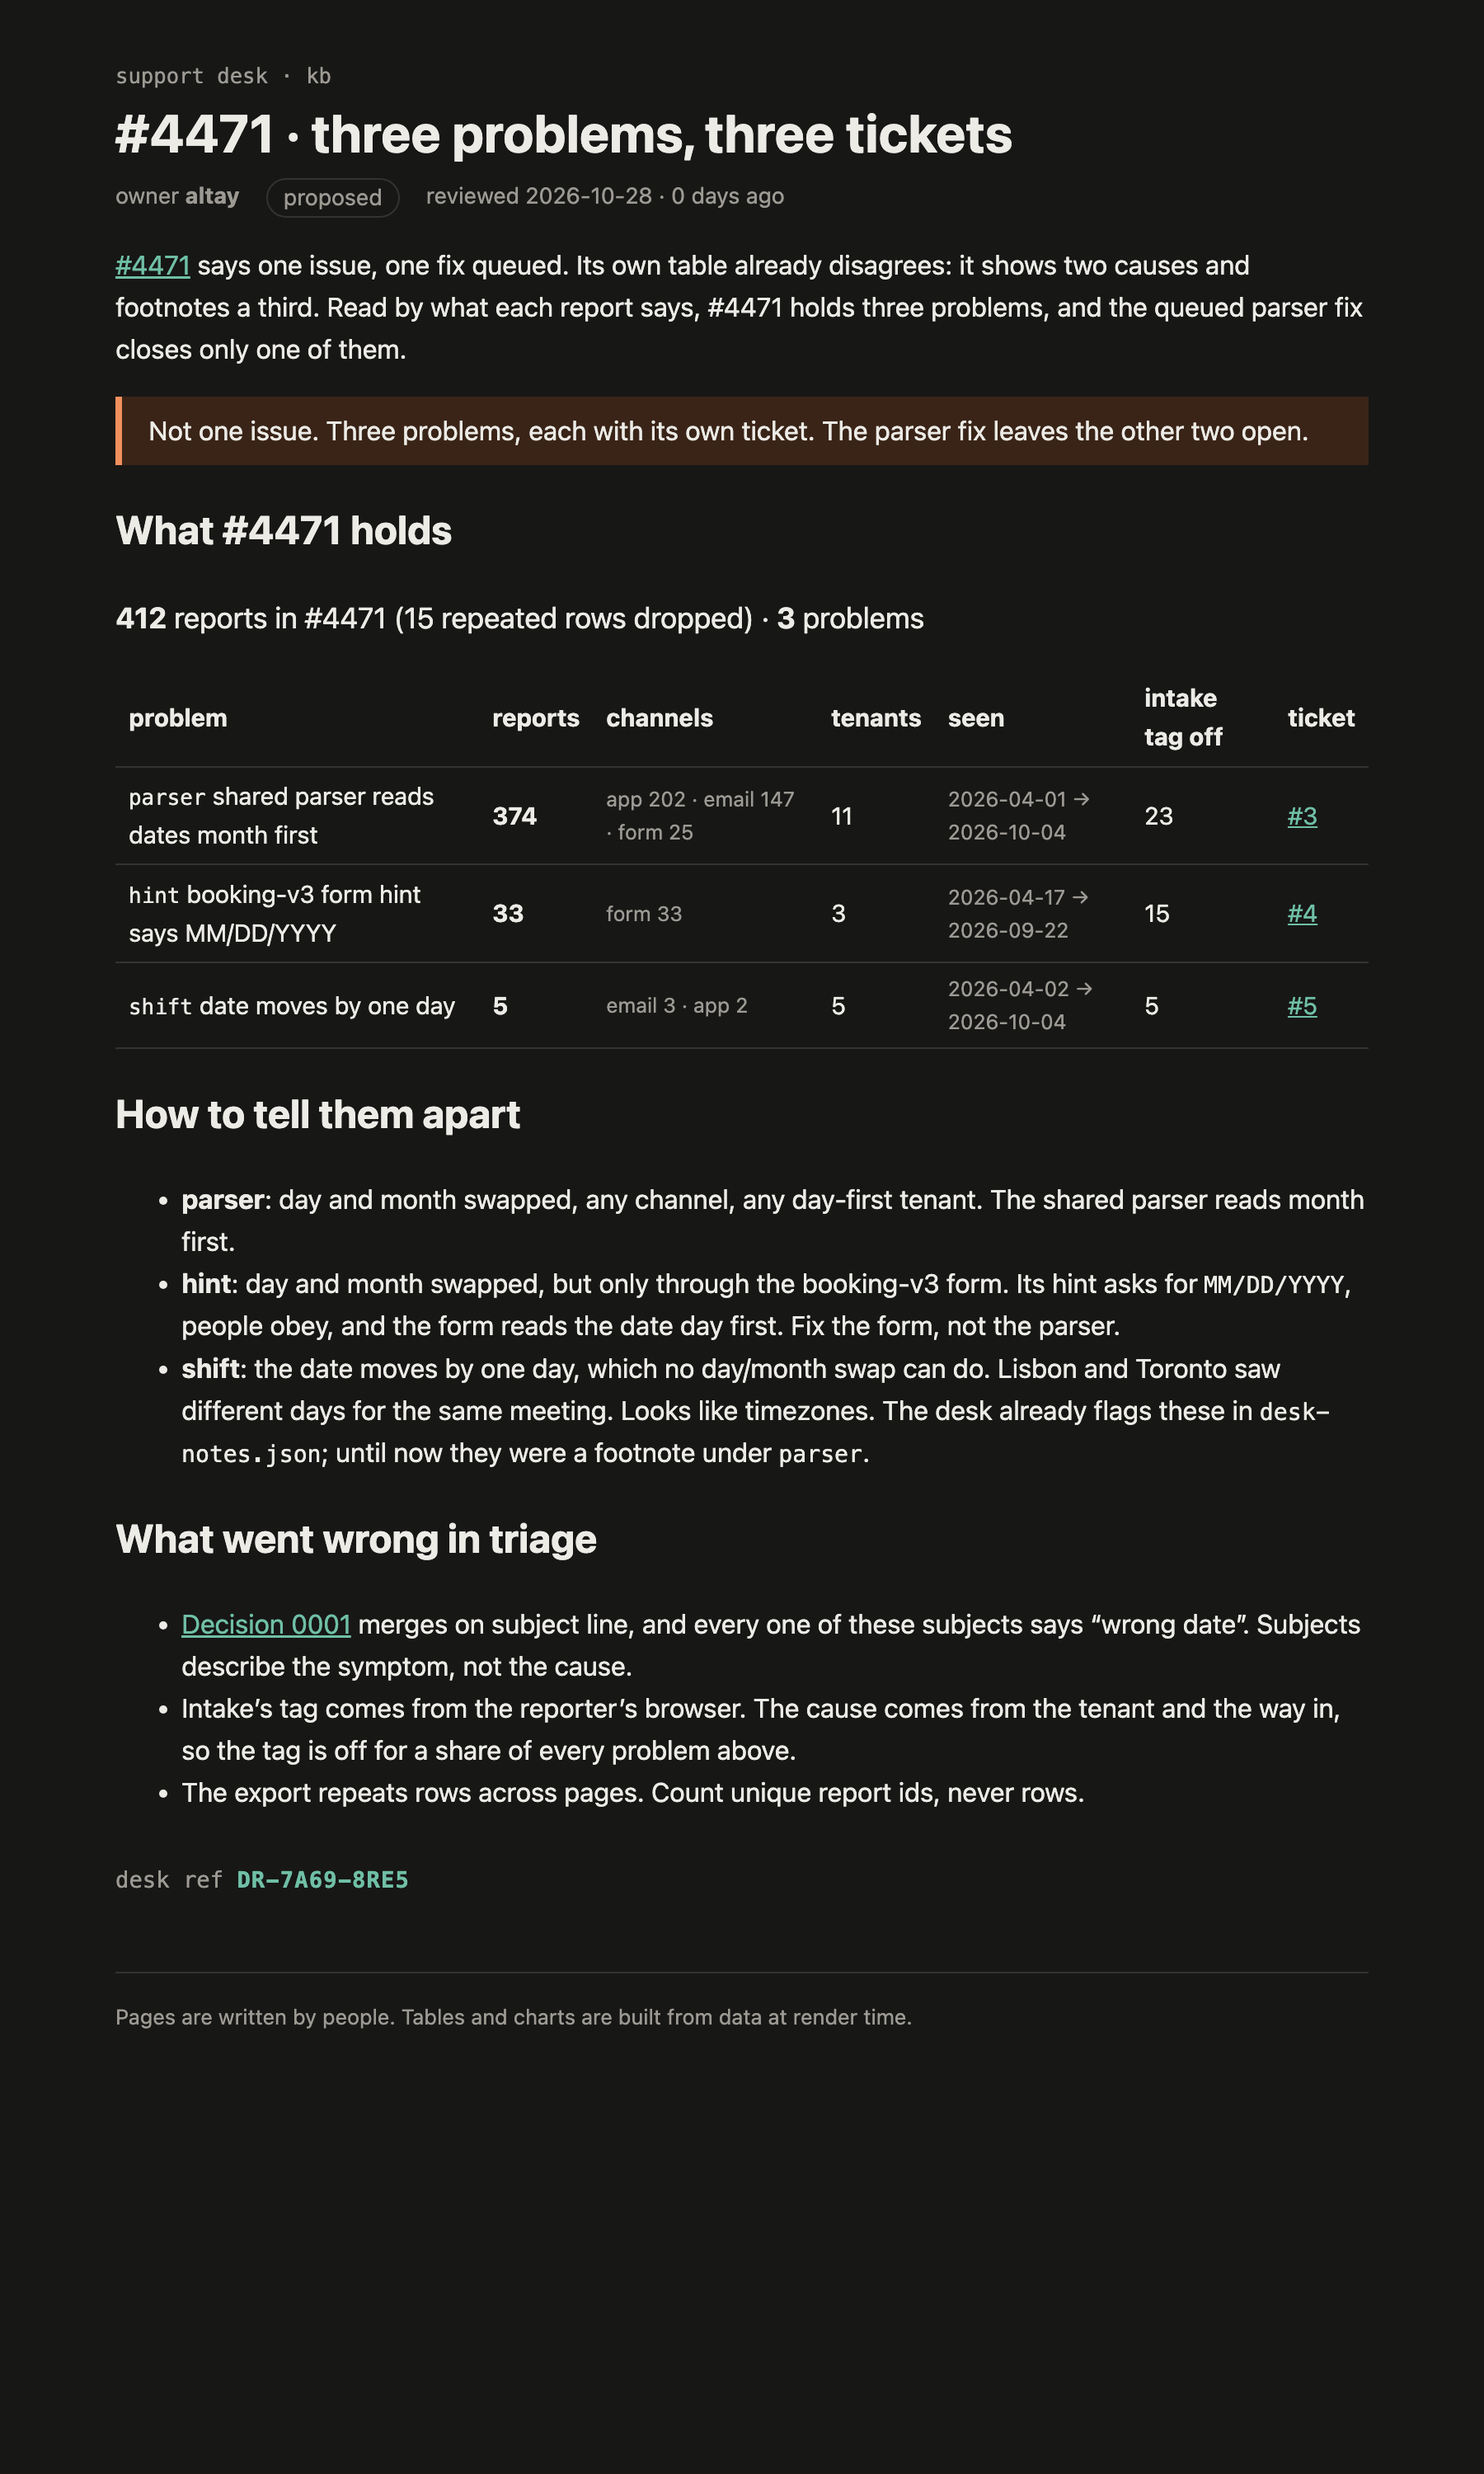
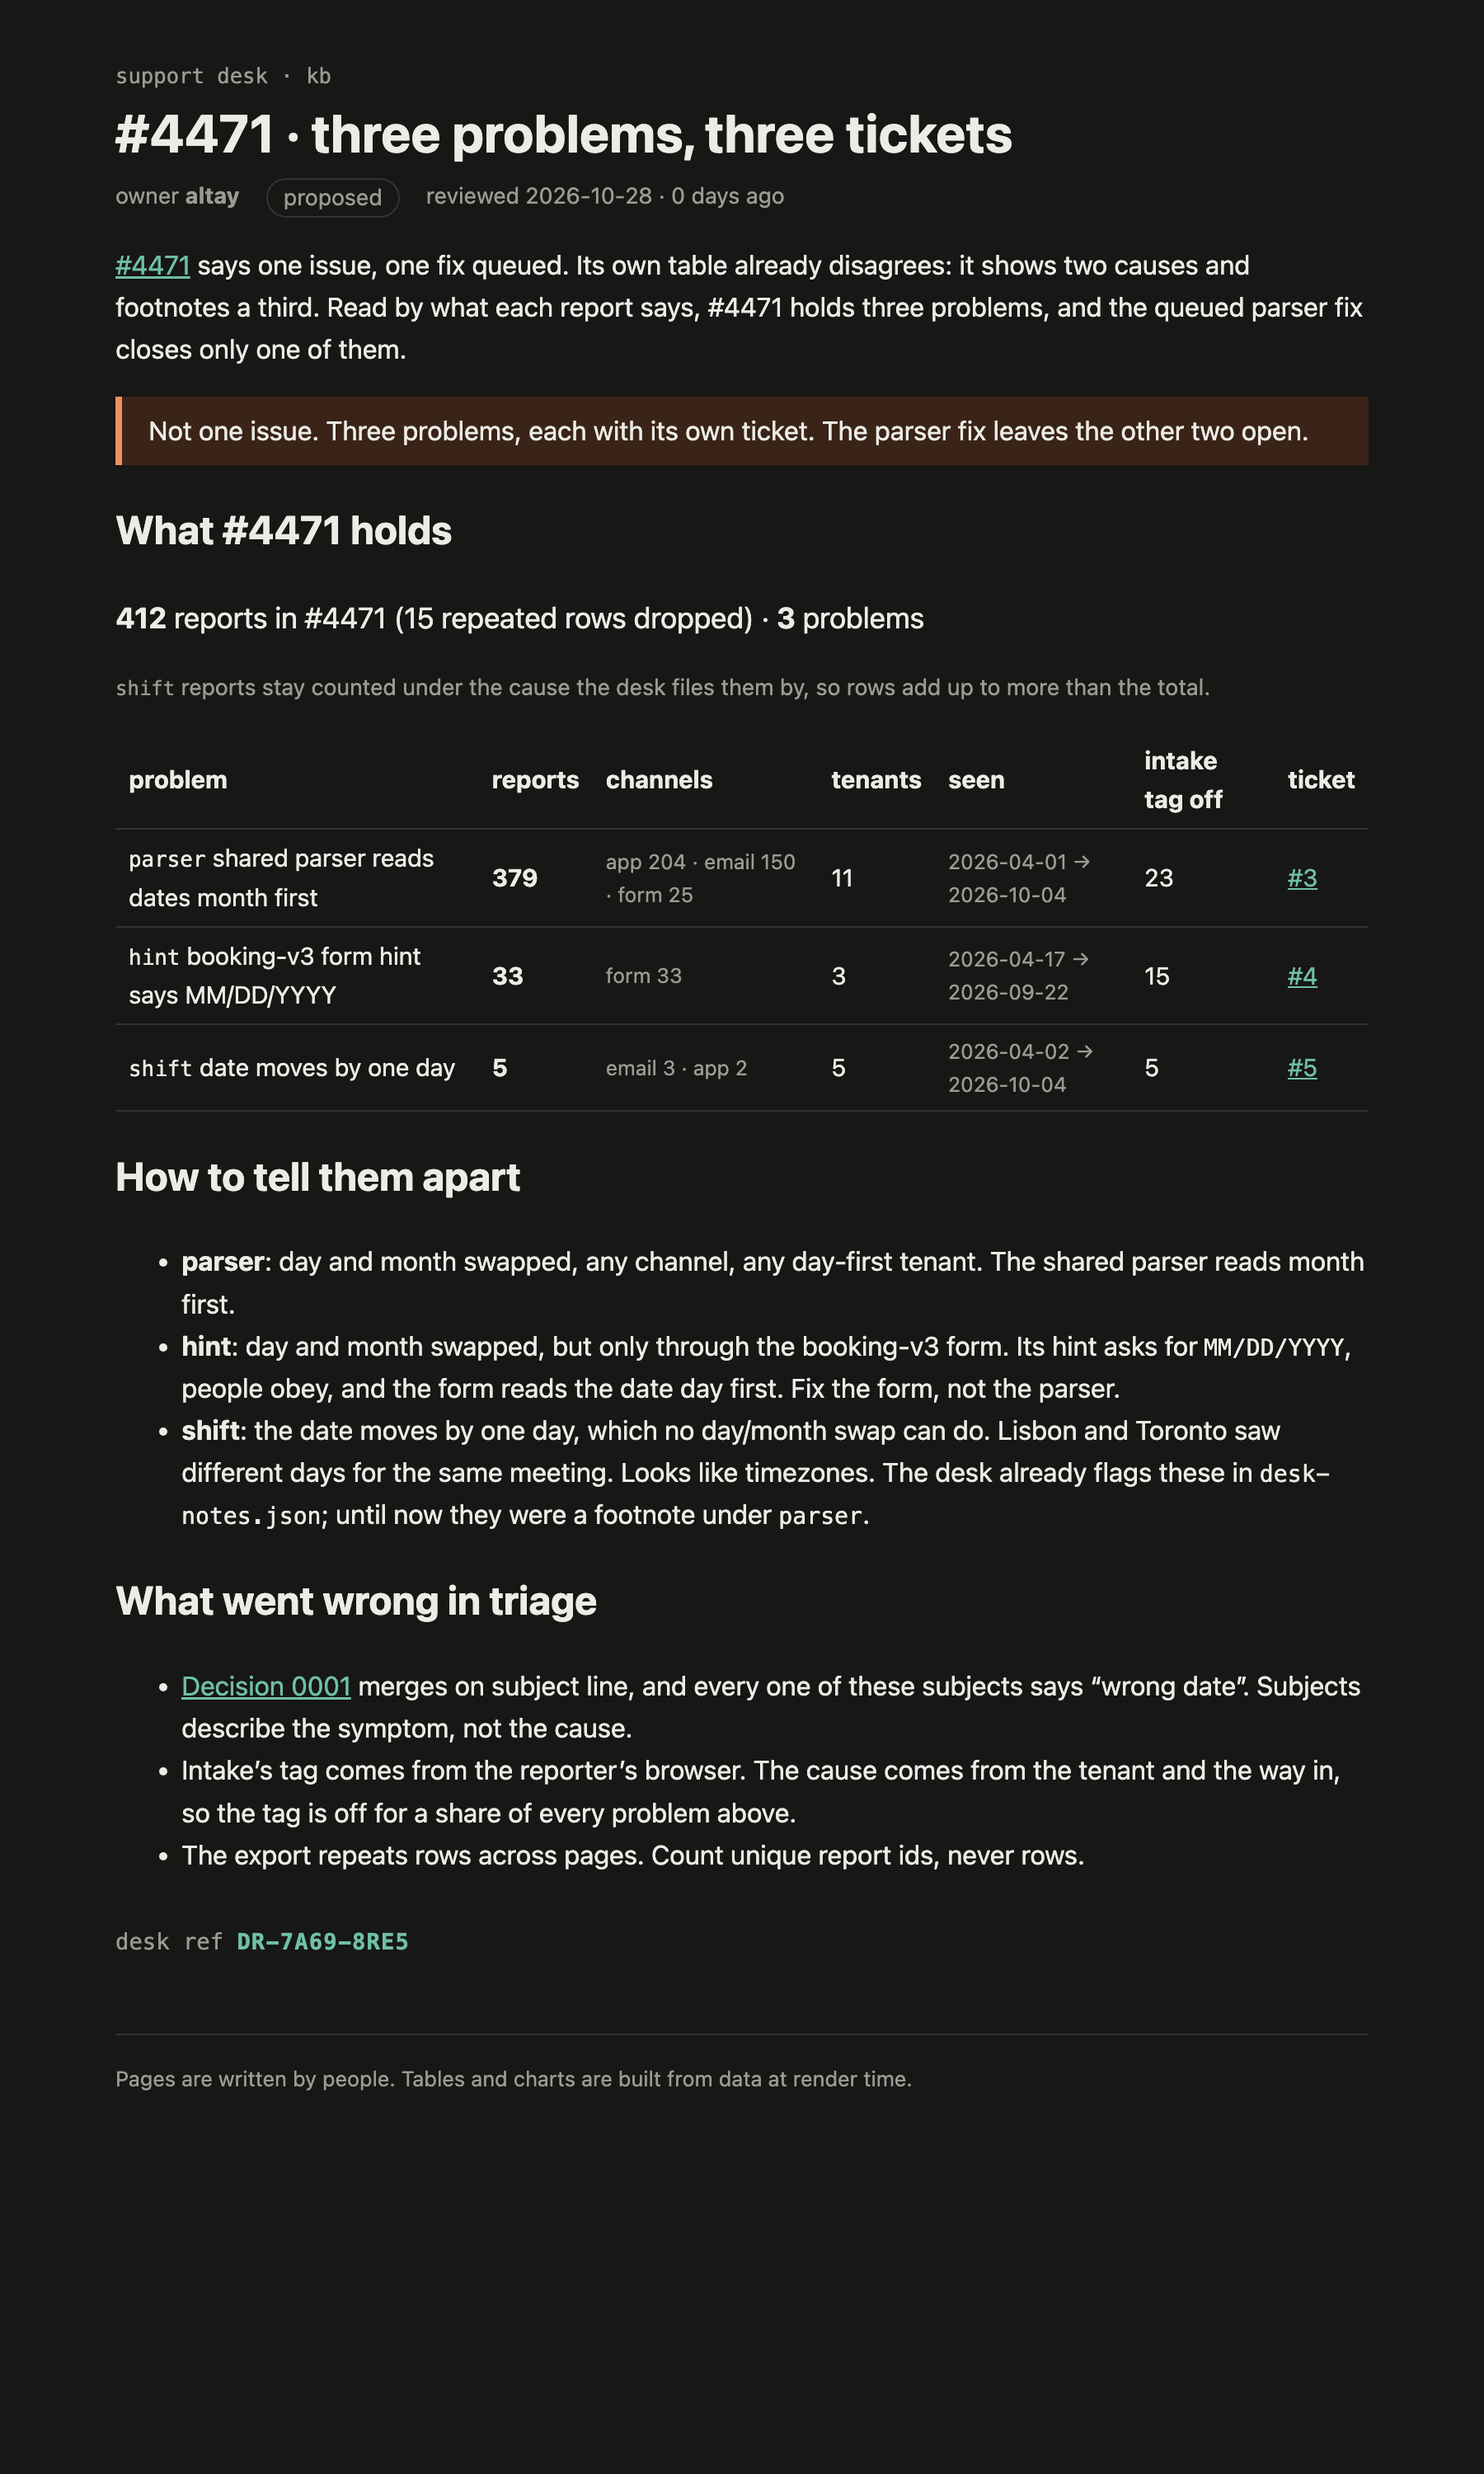
fix: count one-day moves under parser on the #4471 split page, as the desk does

diff --git a/challenges/s01e03/rendered/4471-split.html b/challenges/s01e03/rendered/4471-split.html
@@ -3,19 +3,19 @@
   <head>
     <meta charset="utf-8" />
     <meta name="viewport" content="width=device-width, initial-scale=1" />
-    <link href="../../_app/immutable/entry/start.DoitRHeC.js" rel="modulepreload">
+    <link href="../../_app/immutable/entry/start.DaoaJX54.js" rel="modulepreload">
 		<link href="../../_app/immutable/chunks/fruYDLqp.js" rel="modulepreload">
-		<link href="../../_app/immutable/chunks/BdlrgVa2.js" rel="modulepreload">
+		<link href="../../_app/immutable/chunks/Dne0C3ZP.js" rel="modulepreload">
 		<link href="../../_app/immutable/chunks/Cbdj2qAo.js" rel="modulepreload">
-		<link href="../../_app/immutable/entry/app.D5BmlFSh.js" rel="modulepreload">
+		<link href="../../_app/immutable/entry/app.CNBy11cR.js" rel="modulepreload">
 		<link href="../../_app/immutable/chunks/BkYfdh9H.js" rel="modulepreload">
 		<link href="../../_app/immutable/chunks/BD3UdjSR.js" rel="modulepreload">
 		<link href="../../_app/immutable/chunks/wnmzq4eU.js" rel="modulepreload">
 		<link href="../../_app/immutable/chunks/TGQFHf5e.js" rel="modulepreload">
 		<link href="../../_app/immutable/nodes/0.CCpBT1ka.js" rel="modulepreload">
 		<link href="../../_app/immutable/chunks/ybC49tkz.js" rel="modulepreload">
-		<link href="../../_app/immutable/nodes/5.diwDGfYk.js" rel="modulepreload">
-		<link href="../../_app/immutable/chunks/YsMd3n73.js" rel="modulepreload">
+		<link href="../../_app/immutable/nodes/5.3DZP7zmw.js" rel="modulepreload">
+		<link href="../../_app/immutable/chunks/DkLjFfNV.js" rel="modulepreload">
 		<link href="../../_app/immutable/chunks/DFPV7QJw.js" rel="modulepreload">
 		<link href="../../_app/immutable/chunks/DxLlZHEF.js" rel="modulepreload">
 		<link href="../../_app/immutable/chunks/iXLSwIXB.js" rel="modulepreload">
@@ -28,7 +28,7 @@
     <div style="display: contents"><!--[--><!--[0--><!--[--><!--[--><div class="kb svelte-e2jw2j"><header><a class="crumb svelte-e2jw2j" href="/kb">support desk · kb</a> <h1 class="svelte-e2jw2j">#4471 · three problems, three tickets</h1> <p class="meta svelte-e2jw2j"><span>owner <b>altay</b></span> <span class="status proposed svelte-e2jw2j">proposed</span> <span class="svelte-e2jw2j">reviewed 2026-10-28 · 0 days ago</span></p></header> <!--[-1--><!--]--> <main><p><a href="/kb/incidents/4471">#4471</a> says one issue, one fix queued. Its own table already disagrees: it
 shows two causes and footnotes a third. Read by what each report says, #4471 holds three problems,
 and the queued parser fix closes only one of them.</p> <aside class="warn svelte-17bri61"><!---->Not one issue. Three problems, each with its own ticket. The parser fix leaves the other two open.<!----></aside><!----> <h2>What #4471 holds</h2> <p class="sum svelte-1op6c6"><strong>412</strong> reports in #4471
-  (15 repeated rows dropped) · <strong>3</strong> problems</p> <table><thead><tr><th>problem</th><th>reports</th><th>channels</th><th>tenants</th><th>seen</th><th>intake tag off</th><th>ticket</th></tr></thead><tbody><!--[--><tr><td><code>parser</code> shared parser reads dates month first</td><td><strong>374</strong></td><td class="muted svelte-1op6c6">app 202 · email 147 · form 25</td><td>11</td><td class="muted svelte-1op6c6">2026-04-01 → 2026-10-04</td><td>23</td><td><!--[0--><a href="https://github.com/altaywtf/mega-dev/issues/3">#3</a><!--]--></td></tr><tr><td><code>hint</code> booking-v3 form hint says MM/DD/YYYY</td><td><strong>33</strong></td><td class="muted svelte-1op6c6">form 33</td><td>3</td><td class="muted svelte-1op6c6">2026-04-17 → 2026-09-22</td><td>15</td><td><!--[0--><a href="https://github.com/altaywtf/mega-dev/issues/4">#4</a><!--]--></td></tr><tr><td><code>shift</code> date moves by one day</td><td><strong>5</strong></td><td class="muted svelte-1op6c6">email 3 · app 2</td><td>5</td><td class="muted svelte-1op6c6">2026-04-02 → 2026-10-04</td><td>5</td><td><!--[0--><a href="https://github.com/altaywtf/mega-dev/issues/5">#5</a><!--]--></td></tr><!--]--></tbody></table><!----> <h2>How to tell them apart</h2> <ul><li><strong>parser</strong>: day and month swapped, any channel, any day-first tenant. The shared parser reads
+  (15 repeated rows dropped) · <strong>3</strong> problems</p> <p class="muted svelte-1op6c6"><code>shift</code> reports stay counted under the cause the desk files them by, so rows add up to more than the total.</p> <table><thead><tr><th>problem</th><th>reports</th><th>channels</th><th>tenants</th><th>seen</th><th>intake tag off</th><th>ticket</th></tr></thead><tbody><!--[--><tr><td><code>parser</code> shared parser reads dates month first</td><td><strong>379</strong></td><td class="muted svelte-1op6c6">app 204 · email 150 · form 25</td><td>11</td><td class="muted svelte-1op6c6">2026-04-01 → 2026-10-04</td><td>23</td><td><!--[0--><a href="https://github.com/altaywtf/mega-dev/issues/3">#3</a><!--]--></td></tr><tr><td><code>hint</code> booking-v3 form hint says MM/DD/YYYY</td><td><strong>33</strong></td><td class="muted svelte-1op6c6">form 33</td><td>3</td><td class="muted svelte-1op6c6">2026-04-17 → 2026-09-22</td><td>15</td><td><!--[0--><a href="https://github.com/altaywtf/mega-dev/issues/4">#4</a><!--]--></td></tr><tr><td><code>shift</code> date moves by one day</td><td><strong>5</strong></td><td class="muted svelte-1op6c6">email 3 · app 2</td><td>5</td><td class="muted svelte-1op6c6">2026-04-02 → 2026-10-04</td><td>5</td><td><!--[0--><a href="https://github.com/altaywtf/mega-dev/issues/5">#5</a><!--]--></td></tr><!--]--></tbody></table><!----> <h2>How to tell them apart</h2> <ul><li><strong>parser</strong>: day and month swapped, any channel, any day-first tenant. The shared parser reads
 month first.</li> <li><strong>hint</strong>: day and month swapped, but only through the booking-v3 form. Its hint asks for <code>MM/DD/YYYY</code>, people obey, and the form reads the date day first. Fix the form, not the parser.</li> <li><strong>shift</strong>: the date moves by one day, which no day/month swap can do. Lisbon and Toronto saw
 different days for the same meeting. Looks like timezones. The desk already flags these in <code>desk-notes.json</code>; until now they were a footnote under <code>parser</code>.</li></ul> <h2>What went wrong in triage</h2> <ul><li><a href="/kb/decisions/0001-dedupe-by-subject">Decision 0001</a> merges on subject line, and every one of
 these subjects says “wrong date”. Subjects describe the symptom, not the cause.</li> <li>Intake’s tag comes from the reporter’s browser. The cause comes from the tenant and the way in,
@@ -36,15 +36,15 @@ so the tag is off for a share of every problem above.</li> <li>The export repeat
 			
 			<script>
 				{
-					__sveltekit_1f7o2c8 = {
+					__sveltekit_1dg9efs = {
 						base: new URL("../..", location).pathname.slice(0, -1)
 					};
 
 					const element = document.currentScript.parentElement;
 
 					Promise.all([
-						import("../../_app/immutable/entry/start.DoitRHeC.js"),
-						import("../../_app/immutable/entry/app.D5BmlFSh.js")
+						import("../../_app/immutable/entry/start.DaoaJX54.js"),
+						import("../../_app/immutable/entry/app.CNBy11cR.js")
 					]).then(([kit, app]) => {
 						kit.start(app, element, {
 							node_ids: [0, 5],

diff --git a/challenges/s01e03/support-kb/src/lib/kb/problems.ts b/challenges/s01e03/support-kb/src/lib/kb/problems.ts
@@ -1,6 +1,7 @@
 // The problems #4471 really holds. causes.ts sorts a report by tenant and channel; that cannot see a
 // report whose date moved by one day, which no day/month swap explains. The desk flags those by hand
-// in desk-notes.json, so they become their own problem here instead of a footnote under `parser`.
+// in desk-notes.json. They get their own row and ticket, and stay counted under the cause the desk
+// files them by, as the desk counts (causes.ts `readAs`).
 import notes from '#lib/data/desk-notes.json';
 import { causeOf, uniqueById, type Report, type Tenant } from '#lib/kb/causes';
 
@@ -26,8 +27,9 @@ export function splitTicket(all: Report[], ticket: number, tenantOf: (r: Report)
   const merged = uniqueById(all).filter((r) => r.mergedInto === ticket);
   const by = new Map<ProblemGroup['problem'], Report[]>();
   for (const r of merged) {
-    const p = problemOf(r, tenantOf(r));
-    by.set(p, [...(by.get(p) ?? []), r]);
+    const cause = causeOf(r, tenantOf(r)) ?? 'unplaced';
+    by.set(cause, [...(by.get(cause) ?? []), r]);
+    if (problemOf(r, tenantOf(r)) === 'shift') by.set('shift', [...(by.get('shift') ?? []), r]);
   }
   const groups: ProblemGroup[] = [...by.entries()]
     .map(([problem, rs]) => {

diff --git a/challenges/s01e03/support-kb/src/lib/kb/ProblemTable.svelte b/challenges/s01e03/support-kb/src/lib/kb/ProblemTable.svelte
@@ -26,6 +26,7 @@
   ({split.rows - split.merged.length} repeated rows dropped) ·
   <strong>{split.groups.length}</strong> problems
 </p>
+<p class="muted"><code>shift</code> reports stay counted under the cause the desk files them by, so rows add up to more than the total.</p>
 
 <table>
   <thead>
